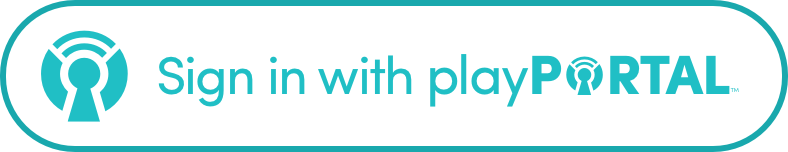
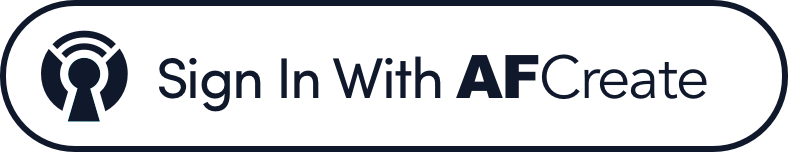
rebranded

Changed region(s): [[0.0, 0.0, 1.0, 1.0]]

diff --git a/Source/URLs.swift b/Source/URLs.swift
@@ -9,9 +9,8 @@ import Foundation
 //  Namespace containing playPORTAl api available hosts and paths
 enum URLs {
     
-    static let sandboxHost = "https://sandbox.playportal.io"
-    static let productionHost = "https://api.playportal.io"
-    static let developHost = "https://develop-api.goplayportal.com"
+    static let sandboxHost = "https://sandbox.afcreate.com"
+    static let productionHost = "https://api.afcreate.com"
     
     /**
      Get playPORTAL api host based on environment.
@@ -24,8 +23,6 @@ enum URLs {
         switch environment {
         case .sandbox:
             return URLs.sandboxHost
-        case .develop:
-            return URLs.developHost
         case .production:
             return URLs.productionHost
         }

diff --git a/Source/PlayPortalAuth.swift b/Source/PlayPortalAuth.swift
@@ -11,7 +11,6 @@ import SafariServices
 public enum PlayPortalEnvironment: String {
     
     case sandbox = "SANDBOX"
-    case develop = "DEVELOP"
     case production = "PRODUCTION"
 }
 
